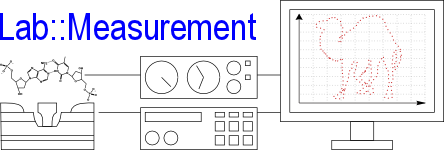
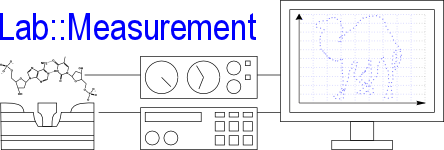
Überarbeitet

diff --git a/index.html b/index.html
@@ -14,16 +14,14 @@
         <li><a href="index.html">Homepage</a></li>
         <li><a href="backends.html">Back-ends</a></li>
         <li><a href="docs/index.html">API documentation</a></li>
-        <li><a href="docs/Tutorial.html">Tutorial on Lab::VISA (old)</a></li>
+        <li><a href="docs/Tutorial.html">Tutorial (outdated)</a></li>
         <li><a href="docs/installation.html">Installation guide</a></li>
-        <li><a href="Lab-VISA-talk.pdf">Presentation slides (old)</a></li>
+        <li><a href="Lab-VISA-talk.pdf">Presentation slides (outdated)</a></li>
         <li><a href="https://www-mailman.uni-regensburg.de/mailman/listinfo/lab-visa-users">Mailing list</a></li>
     </ul>
-    <h2>Download Lab::VISA</h2>
+    <h2>Download Lab::Measurement</h2>
     <ul>
-        <li><a href="http://search.cpan.org/dist/Lab-VISA/">Lab::VISA</a></li>
-        <li><a href="http://search.cpan.org/dist/Lab-Instrument/">Lab::Instrument</a></li>
-        <li><a href="http://search.cpan.org/dist/Lab-Tools/">Lab::Tools</a></li>
+        <li><a href="http://search.cpan.org/dist/Lab-Measurement/">Lab::Measurement</a></li>
     </ul>
 </div>
 
@@ -41,22 +39,13 @@ for internal details and make data aquisition as easy as
 </p>
 
 <p>The Lab::Measurement software stack comprises several parts that are built
-on top of each other and provide increasing comfort. Measurement scripts
-can be based on any of these stages.</p>
-
-<p>The lowest level is the <i>device driver</i> library or Perl binding. <i>Lab::VISA</i>, 
-distributed here, makes the NI-VISA library accessible from Perl and thus allows 
-to make any standard VISA call. This way, a wide variety of devices can be addressed. 
-Installation of NI-VISA is straightforward on Windows but can be VERY cumbersome on recent 
-Linux variants. Therefore, other independently developed drivers such as <i>Linux-GPIB</i>, 
-the de-facto standard for addressing GPIB devices under Linux, can also be used;
-support for more backends is being developed.
-</p>
+on top of each other. This modularization allows support for a wide range of hardware
+on different operating systems.</p>
 
 <p>
-As the backends vary in API details, each of these is encapsulated into perl modules
-of types Lab::Bus and Lab::Connection. Imagine a Bus as a cable. All measurement 
-devices on one cable share a Bus, passing commands and data to and from the computer 
+As hardware drivers vary in API details, each supported one is encapsulated into perl modules
+of types <i>Lab::Bus</i> and <i>Lab::Connection</i>. Imagine a Bus as a cable. All measurement 
+devices on one cable share a Bus object, passing commands and data to and from the computer 
 using one Connection per instrument. If your measurement script works under Linux 
 with Lab::Connection::LinuxGPIB, it will also work with Lab::Connection::VISA by 
 just instantiating a different Connection object. Normally you won't have to care much
@@ -65,32 +54,22 @@ parameters.
 </p>
 
 <p>
-The modules in the <i>Lab::Instrument</i> package make communication with instruments easier 
-by silently handling all the protocol overhead. You can just Write commands to an instrument
-and Read the result. Drivers for specific devices are included, implementing their command
+A typical measurement script does not care much about these details, but is based on the 
+high-level interface provided by the modules <i>Lab::Instrument</i> and <i>Lab::Measurement</i>. 
+The former silently handles all the protocol overhead. You can just write commands to an instrument
+and read the result. Drivers for specific devices are included, implementing their command
 syntax (e.g. set_voltage(...)); more can easily be added to provide additional high-level functions. 
+The latter includes tools for metadata handling (what was that amplifier setting in the measurement
+again?!), plotting and similar.
 </p>
 
-
-<p>
-Package Lab::Tools is the highest abstraction layer and is intended to support writing 
-better measurement scripts. The modules in this package offer means to log and plot data 
-and its related metadata.
-</p>
-
-<p>These packages together are referred to as the Lab::Measurement system.
+<p>These classes together are distributet as the Lab::Measurement system.
 Designed to make data aquisition fun!</p>
 
 <h2>How to obtain</h2>
-<p>The packages are free software and can be downloaded from CPAN.
-Follow these links for
-<ul>
-    <li><a href="http://search.cpan.org/dist/Lab-VISA/">Lab::VISA</a>,</li>
-    <li><a href="http://search.cpan.org/dist/Lab-Instrument/">Lab::Instrument</a>,
-    and</li>
-    <li><a href="http://search.cpan.org/dist/Lab-Tools/">Lab::Tools</a>.</li>
-</ul>
-The <a href="https://www.gitorious.org/lab-measurement/">source code archive is 
+<p>
+Lab::Measurement is free software and can be <a href="http://search.cpan.org/dist/Lab-Measurement/">downloaded 
+from CPAN</a>. The <a href="https://www.gitorious.org/lab-measurement/">source code archive is 
 hosted at Gitorious</a>, where you can also obtain the newest pre-release code and 
 browse the version history. If you would like to contribute, just send us your patches, 
 merge requests, ... :)
@@ -100,13 +79,13 @@ merge requests, ... :)
 <p>Quite some <a href="docs/index.html">documentation of Lab::Measurement</a>
 (<a href="docs/documentation.pdf">PDF format</a>) is available. This
 documentation includes a <a href="docs/Tutorial.html">tutorial on
-using Lab::VISA</a> (outdated). Detailed <a href="docs/installation.html">installation
+using Lab::Measurement</a> (outdated). Detailed <a href="docs/installation.html">installation
 instructions</a> are provided as well. In addition, there's also a collection
 of <a href="backends.html">back-end specific documentation and links</a>.
 </p>
 <p>There is a <a
     href="https://www-mailman.uni-regensburg.de/mailman/listinfo/lab-visa-users">mailing
-list (lab-visa-users)</a> set up for Lab::VISA. This mailing list is the
+list (lab-visa-users)</a> set up for Lab::VISA and Lab::Measurement. This mailing list is the
 right place to give feedback and ask for help.</p>
 
 <h2>Status</h2>

diff --git a/backends.html b/backends.html
@@ -6,7 +6,7 @@
 <link rel="stylesheet" type="text/css" href="doku.css" />
 </head>
 <body>
-<div id="header"><img id="logo" src="header.png" alt="Lab::VISA"/></div>
+<div id="header"><img id="logo" src="header.png" alt="Lab::Measurement"/></div>
 <div id="toc">
     <h1>Links</h1><!-- wählen -->
     <h2>Documentation and Support</h2>
@@ -14,10 +14,14 @@
         <li><a href="index.html">Homepage</a></li>
         <li><a href="backends.html">Back-ends</a></li>
         <li><a href="docs/index.html">API documentation</a></li>
-        <li><a href="docs/Tutorial.html">Tutorial on Lab::VISA (old)</a></li>
+        <li><a href="docs/Tutorial.html">Tutorial (outdated)</a></li>
         <li><a href="docs/installation.html">Installation guide</a></li>
-        <li><a href="Lab-VISA-talk.pdf">Presentation slides (old)</a></li>
+        <li><a href="Lab-VISA-talk.pdf">Presentation slides (outdated)</a></li>
         <li><a href="https://www-mailman.uni-regensburg.de/mailman/listinfo/lab-visa-users">Mailing list</a></li>
+    </ul>
+    <h2>VISA perl bindings</h2>
+    <ul>
+        <li><a href="labvisa.html">Lab::VISA</a></li>
     </ul>
     <h2>NI-VISA resources</h2>
     <ul>
@@ -30,20 +34,44 @@
 </div>
 
 <h2>National Instruments NI-VISA back-end</h2>
-<p><a href="http://sine.ni.com/psp/app/doc/p/id/psp-411">National
+<p>
+The National Instruments NI-VISA library and the associated GPIB drivers are widely used and proven 
+code for accessing lab devices, and our clear recommendation for controlling lab devices under 
+Microsoft Windows. For the respective downloads, please follow the provided links.
+Linux support is available, however, installation can be complicated, and there is no 
+support for USB-GPIB adaptors under Linux. A lot of tips and tricks can be found at the 
+<a href="http://decibel.ni.com/content/groups/linux-users">NI Linux User Forum</a>.
+</p>
+
+<p>
+In general, <a href="http://sine.ni.com/psp/app/doc/p/id/psp-411">National
 Instruments</a> offers excellent documentation. We especially recommend the
 <a href="http://www.ni.com/pdf/manuals/370423a.pdf">NI-VISA User
 Manual</a>, the <a href="http://www.ni.com/pdf/manuals/370132c.pdf">NI-VISA
 Programmer Reference Manual</a> and these references of <a
-    href="http://zone.ni.com/reference/en-XX/help/371361B-01/lvinstio/visa_resource_name_generic/">VISA
+href="http://zone.ni.com/reference/en-XX/help/371361B-01/lvinstio/visa_resource_name_generic/">VISA
 resource names</a> and <a
-    href="http://zone.ni.com/reference/en-XX/help/371361B-01/lverror/visa_error_codes/">VISA
-error codes</a>.</p>
+href="http://zone.ni.com/reference/en-XX/help/371361B-01/lverror/visa_error_codes/">VISA
+error codes</a>.
+</p>
+
+<p>
+For using the NI VISA library, you will have to install the perl package Lab::VISA providing 
+the perl language bindings.
+</p>
 
 <h2>Linux-GPIB back-end</h2>
 <p>
+The <a href="http://linux-gpib.sourceforge.net/">Linux-GPIB project</a> aims at providing
+free and open-source hardware drivers and a GPIB library with an API compatible to the NI drivers (without VISA).
+The package code is considered stable and feature-complete; new releases occur mainly as response
+to changes in the kernel driver interface.
+</p>
+
+<p>
 ...
 </p>
+
 
 </body>
 </html>

diff --git a/doku.css b/doku.css
@@ -12,7 +12,7 @@ div#header {
 	margin: 0 0 3ex 0;
 	border-style: solid;
 	border-width: 1px 0;
-	border-color: #c91c1c;
+	border-color: #1c1cc9;
 	text-align: center;
 }
 
@@ -25,7 +25,7 @@ div#toc {
 	margin: 0 0 0 2em;
 	border-width: 0px;
 	border-style: solid;
-	border-color: #c91c1c;
+	border-color: #1c1cc9;
 }
 
 div#toc h1 {
@@ -35,7 +35,7 @@ div#toc h1 {
   text-align: center;
   border-style: solid;
   border-width: 0 0 1px 0;
-  border-color: #c91c1c;
+  border-color: #1c1cc9;
   margin: 0 0 2ex 0;
 }
 
@@ -78,7 +78,7 @@ h1 {
 }
 
 h1 .basename {
-  color: #aa0000;
+  color: #0000aa;
 }
 
 h2      {
@@ -106,13 +106,13 @@ h4      {
 
 a {
   text-decoration: none;
-  color: #aa0000;
+  color: #0000aa;
 }
 a:visited {
-  color: #aa0000;
+  color: #0000aa;
 }
 a:hover {
-  color: #aa0000;
+  color: #0000aa;
   text-decoration: underline;
 }
 
@@ -124,7 +124,7 @@ h1 a:visited {
   color: #5c5c5c;
 }
 h1 a:hover {
-  color: #aa0000;
+  color: #0000aa;
   text-decoration: none;
 }
 
@@ -132,19 +132,19 @@ h2 a { text-decoration: none; }
 h3 a { text-decoration: none; }
 h4 a { text-decoration: none; }
 
-span.keyword {color: #00f}
+span.keyword {color: #f00}
 span.keyword2 {color: #808}
-span.number {color: #f00}
-span.identifier {color: #a66}
-span.function {color: #bb5500}
-span.method {color: #bb5500}
-span.variable {color: #990000}
-span.statement {color: #00f}
+span.number {color: #00f}
+span.identifier {color: #66a}
+span.function {color: #0055bb}
+span.method {color: #0055bb}
+span.variable {color: #000099}
+span.statement {color: #f00}
 span.comment {color: #080}
 span.perlpod {color: #080}
-span.quote {color: #a66}
-span.wquote {color: #600}
-span.value {color: #a66}
+span.quote {color: #66a}
+span.wquote {color: #006}
+span.value {color: #66a}
 span.regexp_statement {color: #5c5c5c}
-span.tag {color: #00f}
-span.url {color: #00f; text-decoration: underline}
+span.tag {color: #f00}
+span.url {color: #f00; text-decoration: underline}
